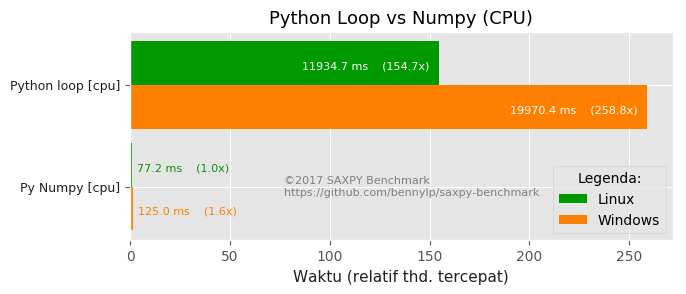
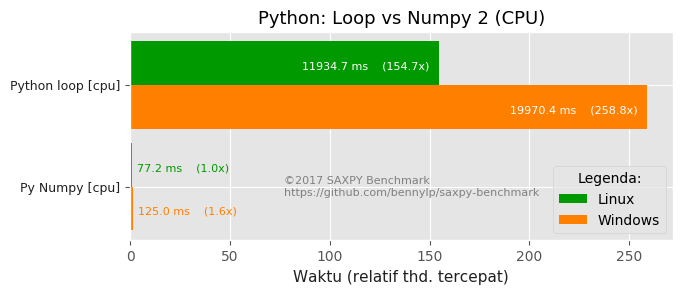
Automated markdown generation for front page

Changed region(s): [[0.3673, 0.0306, 0.7959, 0.0918]]

diff --git a/results/create_charts.py b/results/create_charts.py
@@ -16,7 +16,7 @@ known_columns = set(['Python loop [cpu]', 'Py Numpy [cpu]', 'Py Pandas [cpu]',
                      'C++ CUDA [gpu]',
                      'C++ OCL [cpu]', 'C++ OCL [gpu]',
                      'PyOCL [cpu]', 'PyOCL [gpu]', 'PyCUDA [gpu]',
-                     'Py TensorFlow [cpu]', 'Py TensorFlow [gpu]',
+                     'Py TensorFlow [cpu]', 'Py TensorFlow [gpu]', 'C++ TensorFlow [gpu]',
                      'Octave [cpu]',
                      'R (loop) [cpu]', 'R (array) [cpu]', 'R (matrix) [cpu]', 'R (data.frame) [cpu]',
                      'R (data.table) [cpu]',
@@ -24,6 +24,7 @@ known_columns = set(['Python loop [cpu]', 'Py Numpy [cpu]', 'Py Pandas [cpu]',
                      'C++ OMP [cpu]',
                      'MXNet [cpu]', 'MXNet [gpu]',
                      'Julia (loop) [cpu]', 'Julia (vec) [cpu]'])
+
 
 def create_chart0(spec, lang, output_dir):
     print('Processing {} "{}"'.format(spec['output'], spec['title']))
@@ -41,7 +42,7 @@ def create_chart0(spec, lang, output_dir):
         if columns:
             df = df.loc[:, columns]
         if drop_columns:
-            df = df.drop(drop_columns, axis=1)
+            df = df.drop(drop_columns, axis=1, errors='ignore')
         df = df.mean()
         data[serie['title']] = df
 
@@ -86,9 +87,11 @@ def create_chart0(spec, lang, output_dir):
             shift = 0
             yshift = 0.02
             if xpos > 0:
-                ax.text(xpos, x[j] + yshift, txt, fontdict={'size': 8}, color='w')
+                ax.text(xpos, x[j] + yshift, txt,
+                        fontdict={'size': 8}, color='w')
             else:
-                ax.text(y[j] + max_value * 0.01, x[j] + yshift, txt, fontdict={'size': 8}, color=colors[i])
+                ax.text(y[j] + max_value * 0.01, x[j] + yshift,
+                        txt, fontdict={'size': 8}, color=colors[i])
 
     ax.text(rel.iloc[0, 0] * 4 / 8, y_pos[-1] + BAR_HEIGHT / 2 - 0.01,
             '©%d SAXPY Benchmark' % datetime.date.today().year,
@@ -105,12 +108,15 @@ def create_chart0(spec, lang, output_dir):
     ax.invert_yaxis()  # labels read top-to-bottom
     label = 'Waktu (relatif thd. tercepat)' if lang == 'id' else 'Time (relative to fastest)'
     ax.set_xlabel(label, fontdict={'size': 11}, color="#202020")
-    ax.set_title(spec.get('title-' + lang) or spec['title'], fontdict={'size': 13})
-    ax.legend(loc=spec.get('legend') or 'right', title='Legenda:' if lang == 'id' else 'Legend:')
+    ax.set_title(spec.get('title-' + lang)
+                 or spec['title'], fontdict={'size': 13})
+    ax.legend(loc=spec.get('legend') or 'right',
+              title='Legenda:' if lang == 'id' else 'Legend:')
 
     ax.grid(color='w')
     plt.savefig(output_dir + '/' + png_file, bbox_inches='tight')
     return
+
 
 def create_chart(spec, output_md, use_rel=True):
     print('Processing {} "{}"'.format(spec['data'], spec['title']))
@@ -139,7 +145,7 @@ def create_chart(spec, output_md, use_rel=True):
     for idx in m.index:
         if idx not in known_columns:
             sys.stderr.write("Error: unrecognized column name '{}'. Standard names are required, choose one of:\n - {}\n".format(
-                                idx, '\n - '.join(sorted(known_columns))))
+                idx, '\n - '.join(sorted(known_columns))))
             sys.exit(1)
     rel = m / m[-1]
     std = df.std()
@@ -150,12 +156,13 @@ def create_chart(spec, output_md, use_rel=True):
 
     for idx in m.index:
         output_md += "| {} | {} | {} | {} |\n".format(idx, "%.3f" % m[idx], "%.3f" % std[idx],
-                                                 "%.2fx" % rel[idx])
+                                                      "%.2fx" % rel[idx])
 
     output_md += "\n"
 
     output_md += "\n### Result\n\n"
-    output_md += '![{}]({}?raw=true "{}")\n\n'.format(png_file, png_file, png_file)
+    output_md += '![{}]({}?raw=true "{}")\n\n'.format(png_file,
+                                                      png_file, png_file)
 
     # Remove outliers as we don't support broken/discontinuous axis yet
     notes = ""
@@ -163,7 +170,7 @@ def create_chart(spec, output_md, use_rel=True):
         if m[i] / m[-1] > 20:
             # print('** Warning: removing outlier "%s" from the chart' % m.index[i])
             notes += '- **outlier "{}" is removed from the chart because it is {}x slower**\n'.format(
-                            m.index[i], int(m[i] / m[-1]))
+                m.index[i], int(m[i] / m[-1]))
         else:
             break
 
@@ -186,12 +193,15 @@ def create_chart(spec, output_md, use_rel=True):
     else:
         ax = plt.subplot(111)
 
-    ax.barh(y_pos, y, height=BAR_HEIGHT - 0.15, align='center', color='green', ecolor='black')
+    ax.barh(y_pos, y, height=BAR_HEIGHT - 0.15,
+            align='center', color='green', ecolor='black')
 
     for i, v in enumerate(y):
         # ax.text(v, i, '%.3fx' % v)
-        ax.text(max(0, v - 0.4), y_pos[i] + 0.03, '%.1fx' % v, fontdict={'size': 8}, color='w')
-        ax.text(v + 0.1, y_pos[i] + 0.03, '%.1f ms' % m[i], fontdict={'size': 6}, color='grey')
+        ax.text(max(0, v - 0.4), y_pos[i] + 0.03,
+                '%.1fx' % v, fontdict={'size': 8}, color='w')
+        ax.text(v + 0.1, y_pos[i] + 0.03, '%.1f ms' %
+                m[i], fontdict={'size': 6}, color='grey')
 
     ax.text(y[0] * 5 / 8, y_pos[-1], '©%d SAXPY Benchmark' % datetime.date.today().year,
             fontdict={'size': 8}, color='grey')
@@ -201,7 +211,8 @@ def create_chart(spec, output_md, use_rel=True):
     ax.set_yticks(y_pos)
     ax.set_yticklabels(tests, fontdict={'size': 9}, color="#202020")
     ax.invert_yaxis()  # labels read top-to-bottom
-    ax.set_xlabel('Time (relative to fastest test)', fontdict={'size': 11}, color="#202020")
+    ax.set_xlabel('Time (relative to fastest test)',
+                  fontdict={'size': 11}, color="#202020")
     ax.set_title(spec['title'], fontdict={'size': 13})
 
     ax.grid(color='w')
@@ -209,6 +220,37 @@ def create_chart(spec, output_md, use_rel=True):
 
     output_md += "\n\n"
     return output_md
+
+
+def create_front_page():
+    chart_specs = json.loads(open("charts.json").read())
+    result_specs = json.loads(open("result_specs.json").read())
+
+    doc = ""
+    doc += "# SAXPY CPU and GPGPU Benchmark\n"
+    doc += "## Machine Specifications\n"
+    for spec in result_specs:
+        doc += "### " + spec['title'] + "\n\n"
+        doc += "|    |    |\n"
+        doc += "|----|----|\n"
+        for row in spec['details']:
+            doc += "| {} | {} |\n".format(row[0], row[1])
+        doc += "\n"
+    doc += "\n"
+    doc += "## Benchmarks\n"
+    for spec in chart_specs:
+        doc += "### " + spec['title'] + "\n\n"
+        for remark in spec.get('remarks', []):
+            doc += remark + "\n\n"
+        png_file = "results/charts-en/" + spec['output']
+        doc += '![{}]({}?raw=true "{}")\n\n'.format(png_file,
+                                                    png_file, png_file)
+
+    fname = "../front-page.md"
+    print("Creating " + fname)
+    out = open(fname, "wt")
+    out.write(doc)
+    out.close()
 
 
 README_MD = """
@@ -235,7 +277,7 @@ if __name__ == "__main__":
         if sys.argv[i] == '--lang':
             i += 1
             lang = sys.argv[i]
-        elif sys.argv[i] in ['cmp']:
+        elif sys.argv[i] in ['cmp', 'report']:
             cmd = sys.argv[i]
         else:
             spec_file = sys.argv[i]
@@ -245,6 +287,8 @@ if __name__ == "__main__":
         specs = json.loads(open(spec_file).read())
         for spec in specs:
             create_chart0(spec, lang, 'charts-' + lang)
+    elif cmd == "report":
+        create_front_page()
     if not cmd:
         specs = json.loads(open('result_specs.json').read())
 
@@ -259,4 +303,3 @@ if __name__ == "__main__":
         f = open('README.md', 'w')
         f.write(output_md)
         f.close()
-

diff --git a/README.md b/README.md
@@ -1,0 +1,143 @@
+# SAXPY CPU and GPGPU Benchmark
+## Machine Specifications
+### i7-6700 3.40GHz 4 cores CPU, NVidia GTX 1080 GPU
+
+|    |    |
+|----|----|
+| System | HP Pavilion 550-227 desktop |
+|  | Intel i7-6700 CPU @ 3.40GHz 16GB RAM |
+| OS | Ubuntu Linux 16.04 64bit |
+| GPU | NVidia GeForce GTX 1080 8GB mem |
+| C++ Compiler | g++ 5.4.0 |
+| Python3 | 3.5.2 64bit |
+| TensorFlow | TensorFlow 1.4 (GPU) |
+| CUDA | CUDA 9.0.61 |
+|  | CudNN7 |
+| OpenCL | - Khronos OpenCL header 1.2 |
+|  | - Intel OpenCL driver 16.1.1 |
+|  | - NVidia OpenCL 1.2 driver |
+| PyOpenCL | version 2015.1 |
+| Octave | version 4.0.0 64bit |
+| R | version 3.2.3 64bit |
+| MXNet | mxnet-cu90 (0.12.1) |
+
+### i7-6700 3.40GHz 4 cores CPU, NVidia GTX 475 GPU
+
+|    |    |
+|----|----|
+| System | HP Pavilion 550-227 desktop |
+|  | Intel i7-6700 CPU @ 3.40GHz (4 cores, HT capable) |
+| OS | Windows 10 64bit |
+| GPU | NVidia GeForce GTX 475 4GB mem |
+| C++ Compiler | Visual Studio 2015 C++ compiler 64bit version |
+| Python | 2.7.12 64bit |
+| Python3 | 3.5.3 64bit |
+| TensorFlow | TensorFlow 1.4 (GPU) |
+| CUDA | Version 8.0.61 |
+| OpenCL | - Intel OpenCL SDK Version 7.0.0.2519 |
+|  | - OpenCL from CUDA SDK |
+| PyOpenCL | version 2017.2 |
+| Octave | version 4.2.1 64bit |
+| R | version 3.4.2 64bit |
+
+### MacBook Pro 13" late 2013, on board Intel Iris GPU
+
+|    |    |
+|----|----|
+| System | MacBook Pro 13" late 2013 |
+| OS | OS X 10.11.14 |
+| GPU | on board Intel Iris |
+| OpenCL | preinstalled (XCode 5.1.1) |
+| Python | 3.5.2 |
+| TensorFlow | 1.0.1 |
+| Octave | 3.8.0 |
+| Java | 1.8.0_92 |
+
+
+## Benchmarks
+### Python: Loop vs Numpy (CPU)
+
+Comparison between simple Python loop and Numpy
+
+![results/charts-en/python-loop-vs-numpy-linux-cpu.png](results/charts-en/python-loop-vs-numpy-linux-cpu.png?raw=true "results/charts-en/python-loop-vs-numpy-linux-cpu.png")
+
+### Python: Loop vs Numpy 2 (CPU)
+
+Same as above, on both Linux and Windows
+
+![results/charts-en/python-loop-vs-numpy-cpu.png](results/charts-en/python-loop-vs-numpy-cpu.png?raw=true "results/charts-en/python-loop-vs-numpy-cpu.png")
+
+### R: Loop vs Vectorized (CPU)
+
+Implementation with various methods in R
+
+![results/charts-en/r-loop-vs-vec.png](results/charts-en/r-loop-vs-vec.png?raw=true "results/charts-en/r-loop-vs-vec.png")
+
+### Python: Loop vs Numpy vs Pandas (CPU)
+
+![results/charts-en/python-loop-vs-numpy-vs-pandas-cpu.png](results/charts-en/python-loop-vs-numpy-vs-pandas-cpu.png?raw=true "results/charts-en/python-loop-vs-numpy-vs-pandas-cpu.png")
+
+### Julia: Loop vs Vector (CPU)
+
+![results/charts-en/julia-loop-vs-vector.png](results/charts-en/julia-loop-vs-vector.png?raw=true "results/charts-en/julia-loop-vs-vector.png")
+
+### Numpy vs Octave vs R vs Java vs Julia vs C++ (CPU)
+
+Comparison among different programming languages
+
+![results/charts-en/script-vs-script-vs-java-vs-c++-cpu.png](results/charts-en/script-vs-script-vs-java-vs-c++-cpu.png?raw=true "results/charts-en/script-vs-script-vs-java-vs-c++-cpu.png")
+
+### Python Vectorization: Numpy vs Machine Learning Frameworks (CPU)
+
+SAXPY array operation in Numpy vs machine learning frameworks such as Tensorflow and MXNet
+
+![results/charts-en/vectorized-numpy-vs-frameworks-cpu.png](results/charts-en/vectorized-numpy-vs-frameworks-cpu.png?raw=true "results/charts-en/vectorized-numpy-vs-frameworks-cpu.png")
+
+### Numpy vs ML Frameworks (GPU and CPU)
+
+Same as above, but compare on GPU as well
+
+![results/charts-en/vectorized-numpy-vs-frameworks-gpu.png](results/charts-en/vectorized-numpy-vs-frameworks-gpu.png?raw=true "results/charts-en/vectorized-numpy-vs-frameworks-gpu.png")
+
+### ML Framework GPU vs Loop CPU
+
+Comparing frameworks running on GPU with naive C++ loop running on CPU.
+
+![results/charts-en/frameworks-gpu-vs-c++-cpu.png](results/charts-en/frameworks-gpu-vs-c++-cpu.png?raw=true "results/charts-en/frameworks-gpu-vs-c++-cpu.png")
+
+### C++ Parallel APIs (CPU)
+
+Comparing naive C++ loop with OpenCL and OpenMP on CPU.
+
+![results/charts-en/parallel-c++-cpu.png](results/charts-en/parallel-c++-cpu.png?raw=true "results/charts-en/parallel-c++-cpu.png")
+
+### C++ CPU vs GPU
+
+Comparing naive C++ loop with CUDA and OpenCL on GPU
+
+![results/charts-en/c++-cpu-vs-gpu.png](results/charts-en/c++-cpu-vs-gpu.png?raw=true "results/charts-en/c++-cpu-vs-gpu.png")
+
+### OpenCL vs PyOpenCL (CPU & GPU)
+
+Comparing C++ OpenCL with OpenCL Python wrapper.
+
+![results/charts-en/pyopencl-vs-opencl.png](results/charts-en/pyopencl-vs-opencl.png?raw=true "results/charts-en/pyopencl-vs-opencl.png")
+
+### PyCUDA vs C++ (GPU)
+
+Comparing PyCUDA (Python CUDA wrapper) with C++ OpenCL on GPU and C++ naive loop
+
+![results/charts-en/pycuda-vs-c++.png](results/charts-en/pycuda-vs-c++.png?raw=true "results/charts-en/pycuda-vs-c++.png")
+
+### Tensorflow: Python vs C++ (GPU)
+
+Comparing Tensorflow C++ and Python performance
+
+![results/charts-en/tensorflow-python-vs-c++.png](results/charts-en/tensorflow-python-vs-c++.png?raw=true "results/charts-en/tensorflow-python-vs-c++.png")
+
+### Conclusion
+
+All results, excluding Python and R loops
+
+![results/charts-en/conclusion.png](results/charts-en/conclusion.png?raw=true "results/charts-en/conclusion.png")
+

diff --git a/results/README.md b/results/README.md
@@ -14,6 +14,7 @@ some statistics with them in the future:
 - C++ OCL [cpu]
 - C++ OCL [gpu]
 - C++ OMP [cpu]
+- C++ TensorFlow [gpu]
 - C++ loop [cpu]
 - Java loop [cpu]
 - Julia (loop) [cpu]
@@ -53,7 +54,8 @@ Submitted by Benny Prijono on 2017-11-21
 | C++ Compiler | g++ 5.4.0 |
 | Python3 | 3.5.2 64bit |
 | TensorFlow | TensorFlow 1.4 (GPU) |
-| CUDA | Version 9.0.61 |
+| CUDA | CUDA 9.0.61 |
+|  | CudNN7 |
 | OpenCL | - Khronos OpenCL header 1.2 |
 |  | - Intel OpenCL driver 16.1.1 |
 |  | - NVidia OpenCL 1.2 driver |
@@ -86,7 +88,8 @@ Submitted by Benny Prijono on 2017-11-21
 | Julia (loop) [cpu] | 41.343 | 0.126 | 12.37x |
 | PyOCL [cpu] | 39.846 | 0.598 | 11.93x |
 | C++ loop [cpu] | 36.676 | 0.217 | 10.98x |
-| Py TensorFlow [gpu] | 29.887 | 0.068 | 8.94x |
+| Py TensorFlow [gpu] | 27.574 | 0.000 | 8.25x |
+| C++ TensorFlow [gpu] | 27.356 | 0.000 | 8.19x |
 | MXNet [gpu] | 12.843 | 0.043 | 3.84x |
 | PyCUDA [gpu] | 3.621 | 0.009 | 1.08x |
 | C++ CUDA [gpu] | 3.467 | 0.022 | 1.04x |
